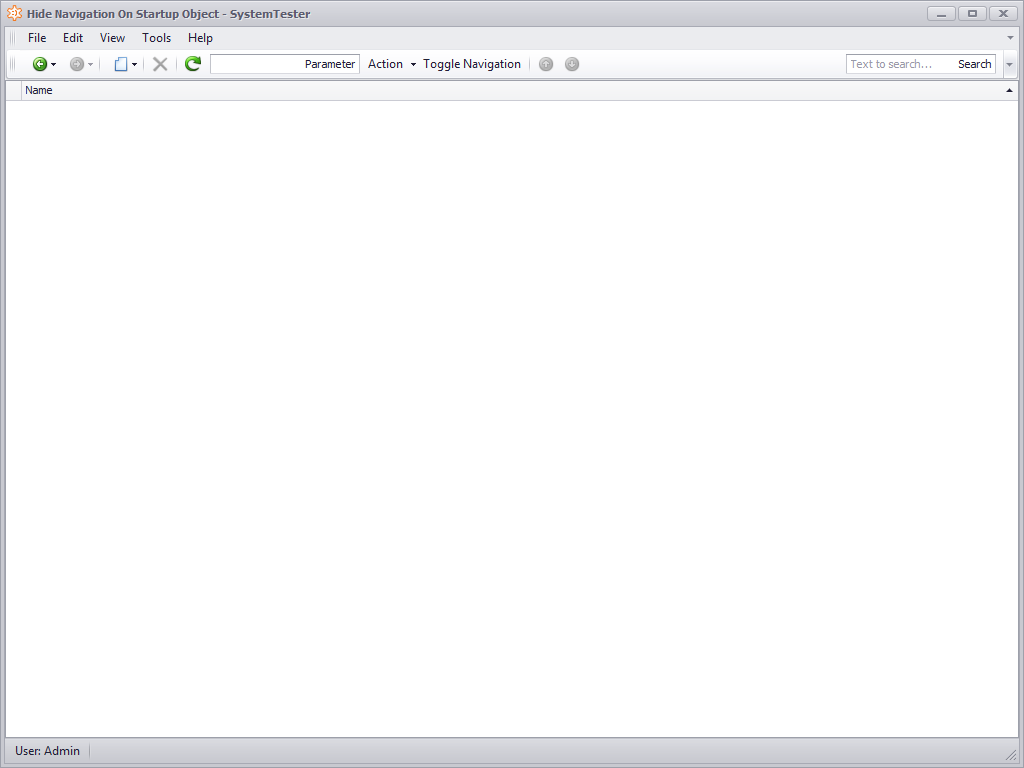
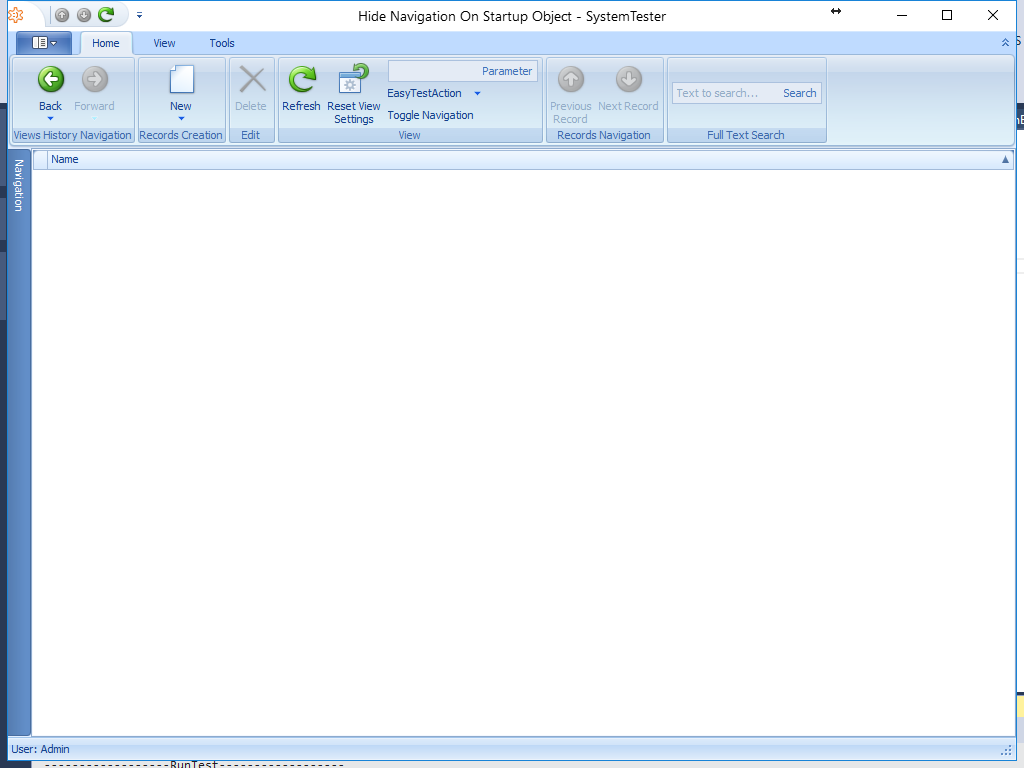
HideNavigationOnStartup for Ribbon

Changed region(s): [[0.0, 0.0, 1.0, 1.0]]

diff --git a/Xpand/Xpand.Persistent/Xpand.Persistent.Base/General/Controllers/NavigationController.cs b/Xpand/Xpand.Persistent/Xpand.Persistent.Base/General/Controllers/NavigationController.cs
@@ -1,4 +1,5 @@
-using System.ComponentModel;
+using System;
+using System.ComponentModel;
 using System.Linq;
 using DevExpress.ExpressApp;
 using DevExpress.ExpressApp.Actions;
@@ -20,17 +21,15 @@ namespace Xpand.Persistent.Base.General.Controllers {
         bool NavigationAlwaysVisibleOnStartup { get; set; }
     }
 
-    public class NavigationContainerController:ViewController,IModelExtender {
-        private readonly SimpleAction _toggleNavigation;
+    public class NavigationContainerController:WindowController,IModelExtender {
         public const string ToggleNavigationId = "ToggleNavigation";
 
         public NavigationContainerController() {
-            _toggleNavigation = new SimpleAction(this, ToggleNavigationId, "Hidden");
+            ToggleNavigation = new SimpleAction(this, ToggleNavigationId, "Hidden");
+            TargetWindowType=WindowType.Main;
         }
 
-        public SimpleAction ToggleNavigation        {
-            get { return _toggleNavigation; }
-        }
+        public SimpleAction ToggleNavigation{ get; }
 
         public void ExtendModelInterfaces(ModelInterfaceExtenders extenders){
             extenders.Add<IModelOptions,IModelOptionsNavigationContainer>();
@@ -47,36 +46,33 @@ namespace Xpand.Persistent.Base.General.Controllers {
     }
 
     public class NavigationContainerWinController : NavigationContainerController {
-        public NavigationContainerWinController(){
+        private DockPanel _navigationPanel;
+
+        public NavigationContainerWinController() {
             ToggleNavigation.Execute += ToggleNavigationOnExecute;
         }
 
-        protected override void OnFrameAssigned(){
+        protected override void OnFrameAssigned() {
             base.OnFrameAssigned();
-            if (((IModelOptionsNavigationContainer)Application.Model.Options).HideNavigationOnStartup.HasValue)
+            if (Frame.Context == TemplateContext.ApplicationWindow)
                 Application.CustomizeTemplate += Application_CustomizeTemplate;
         }
 
-        private void ToggleNavigationOnExecute(object sender, SimpleActionExecuteEventArgs simpleActionExecuteEventArgs){
-            var navigationPanel = GetNavigationPanel((IDockManagerHolder)Application.MainWindow.Template);
-            navigationPanel.Visibility = navigationPanel.Visibility==DockVisibility.Visible ? DockVisibility.Hidden : DockVisibility.Visible;
+        private void ToggleNavigationOnExecute(object sender, SimpleActionExecuteEventArgs simpleActionExecuteEventArgs) {
+            _navigationPanel.Visibility = _navigationPanel.Visibility == DockVisibility.Visible ? DockVisibility.Hidden : DockVisibility.Visible;
             System.Windows.Forms.Application.DoEvents();
         }
 
         private void Application_CustomizeTemplate(object sender, CustomizeTemplateEventArgs e) {
-            if (Frame != null && ((Frame.Template == null || Frame.Template == e.Template) && e.Template is IDockManagerHolder)) {
-                Application.CustomizeTemplate -= Application_CustomizeTemplate;
-                var dockManagerHolder = ((IDockManagerHolder)e.Template);
-                var dockPanel = GetNavigationPanel(dockManagerHolder);
-                if (dockPanel != null){
-                    var hideNavigationOnStartup = ((IModelOptionsNavigationContainer)Application.Model.Options).HideNavigationOnStartup;
-                    dockPanel.Visibility = hideNavigationOnStartup != null && hideNavigationOnStartup.Value?DockVisibility.AutoHide:DockVisibility.Visible;
-                }
-            }
+            Application.CustomizeTemplate -= Application_CustomizeTemplate;
+            var dockManagerHolder = ((IDockManagerHolder)e.Template);
+            dockManagerHolder.DockManager.Load += DockManagerOnLoad;
         }
 
-        private DockPanel GetNavigationPanel(IDockManagerHolder dockManagerHolder){
-            return dockManagerHolder.DockManager.Panels.FirstOrDefault(panel => panel.Name == "dockPanelNavigation");
+        private void DockManagerOnLoad(object sender, EventArgs eventArgs) {
+            _navigationPanel = ((DockManager)sender).Panels.First(panel => panel.Name == "dockPanelNavigation");
+            var hideNavigationOnStartup = ((IModelOptionsNavigationContainer)Application.Model.Options).HideNavigationOnStartup;
+            _navigationPanel.Visibility = hideNavigationOnStartup != null && hideNavigationOnStartup.Value ? DockVisibility.AutoHide : DockVisibility.Visible;
         }
     }
 }

diff --git a/Demos/Modules/SystemTester/SystemTester.Win/Program.cs b/Demos/Modules/SystemTester/SystemTester.Win/Program.cs
@@ -3,8 +3,13 @@ using System.Configuration;
 using System.Diagnostics;
 using System.Windows.Forms;
 using SystemTester.Module;
+using SystemTester.Module.FunctionalTests;
+using DevExpress.ExpressApp;
 using DevExpress.ExpressApp.Security;
 using DevExpress.ExpressApp.Win.EasyTest;
+using DevExpress.ExpressApp.Win.SystemModule;
+using DevExpress.XtraBars.Ribbon;
+using Xpand.Persistent.Base.General;
 
 namespace SystemTester.Win {
     static class Program {
@@ -32,6 +37,11 @@ namespace SystemTester.Win {
                 winApplication.ProjectSetup();
                 winApplication.UseOldTemplates=false;
                 winApplication.Setup();
+                if (winApplication.GetEasyTestParameter(EasyTestParameter.Ribbon)) {
+                    var modelOptionsWin = ((IModelOptionsWin)winApplication.Model.Options);
+                    modelOptionsWin.FormStyle = RibbonFormStyle.Ribbon;
+                    modelOptionsWin.UIType = UIType.TabbedMDI;
+                }
                 winApplication.Start();
             }
             catch (Exception e) {

diff --git a/Demos/Modules/SystemTester/SystemTester.Module/FunctionalTests/EasyTestParameter.cs b/Demos/Modules/SystemTester/SystemTester.Module/FunctionalTests/EasyTestParameter.cs
@@ -1,5 +1,6 @@
 namespace SystemTester.Module.FunctionalTests {
     public class EasyTestParameter{
         public static string ColumnChooser = "ColumnChooser";
+        public static string Ribbon = "Ribbon";
     }
 }
